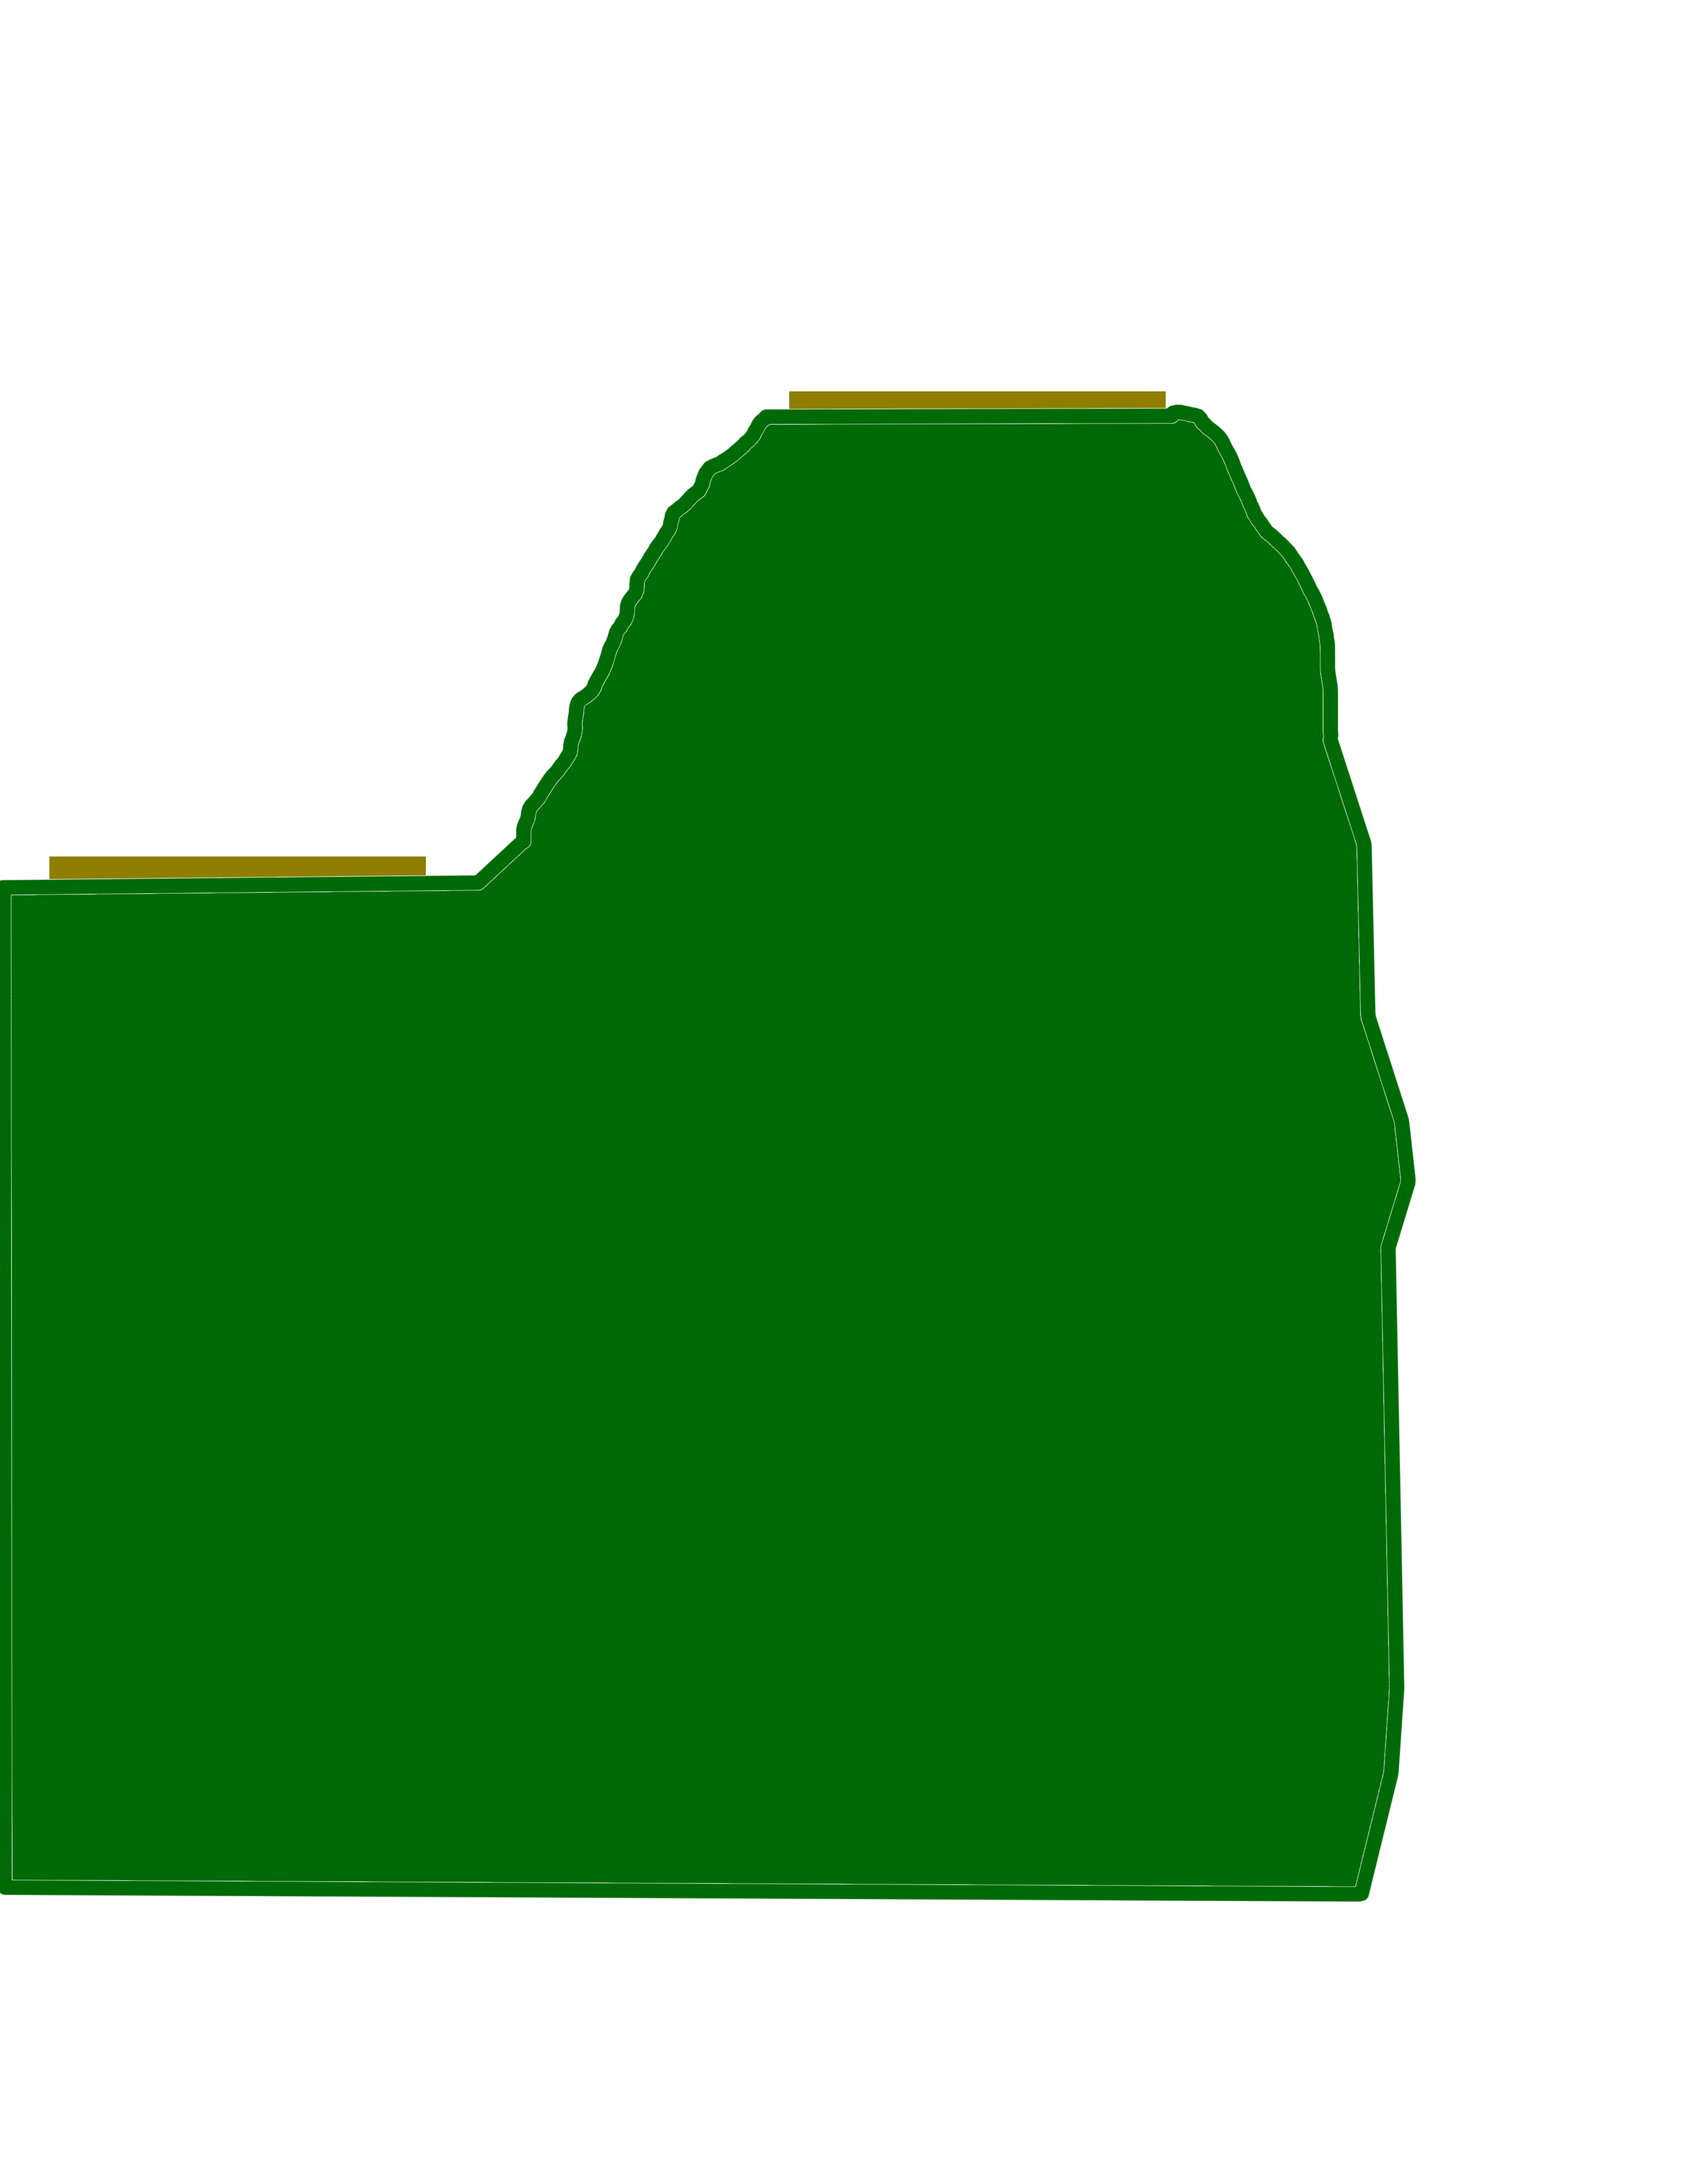
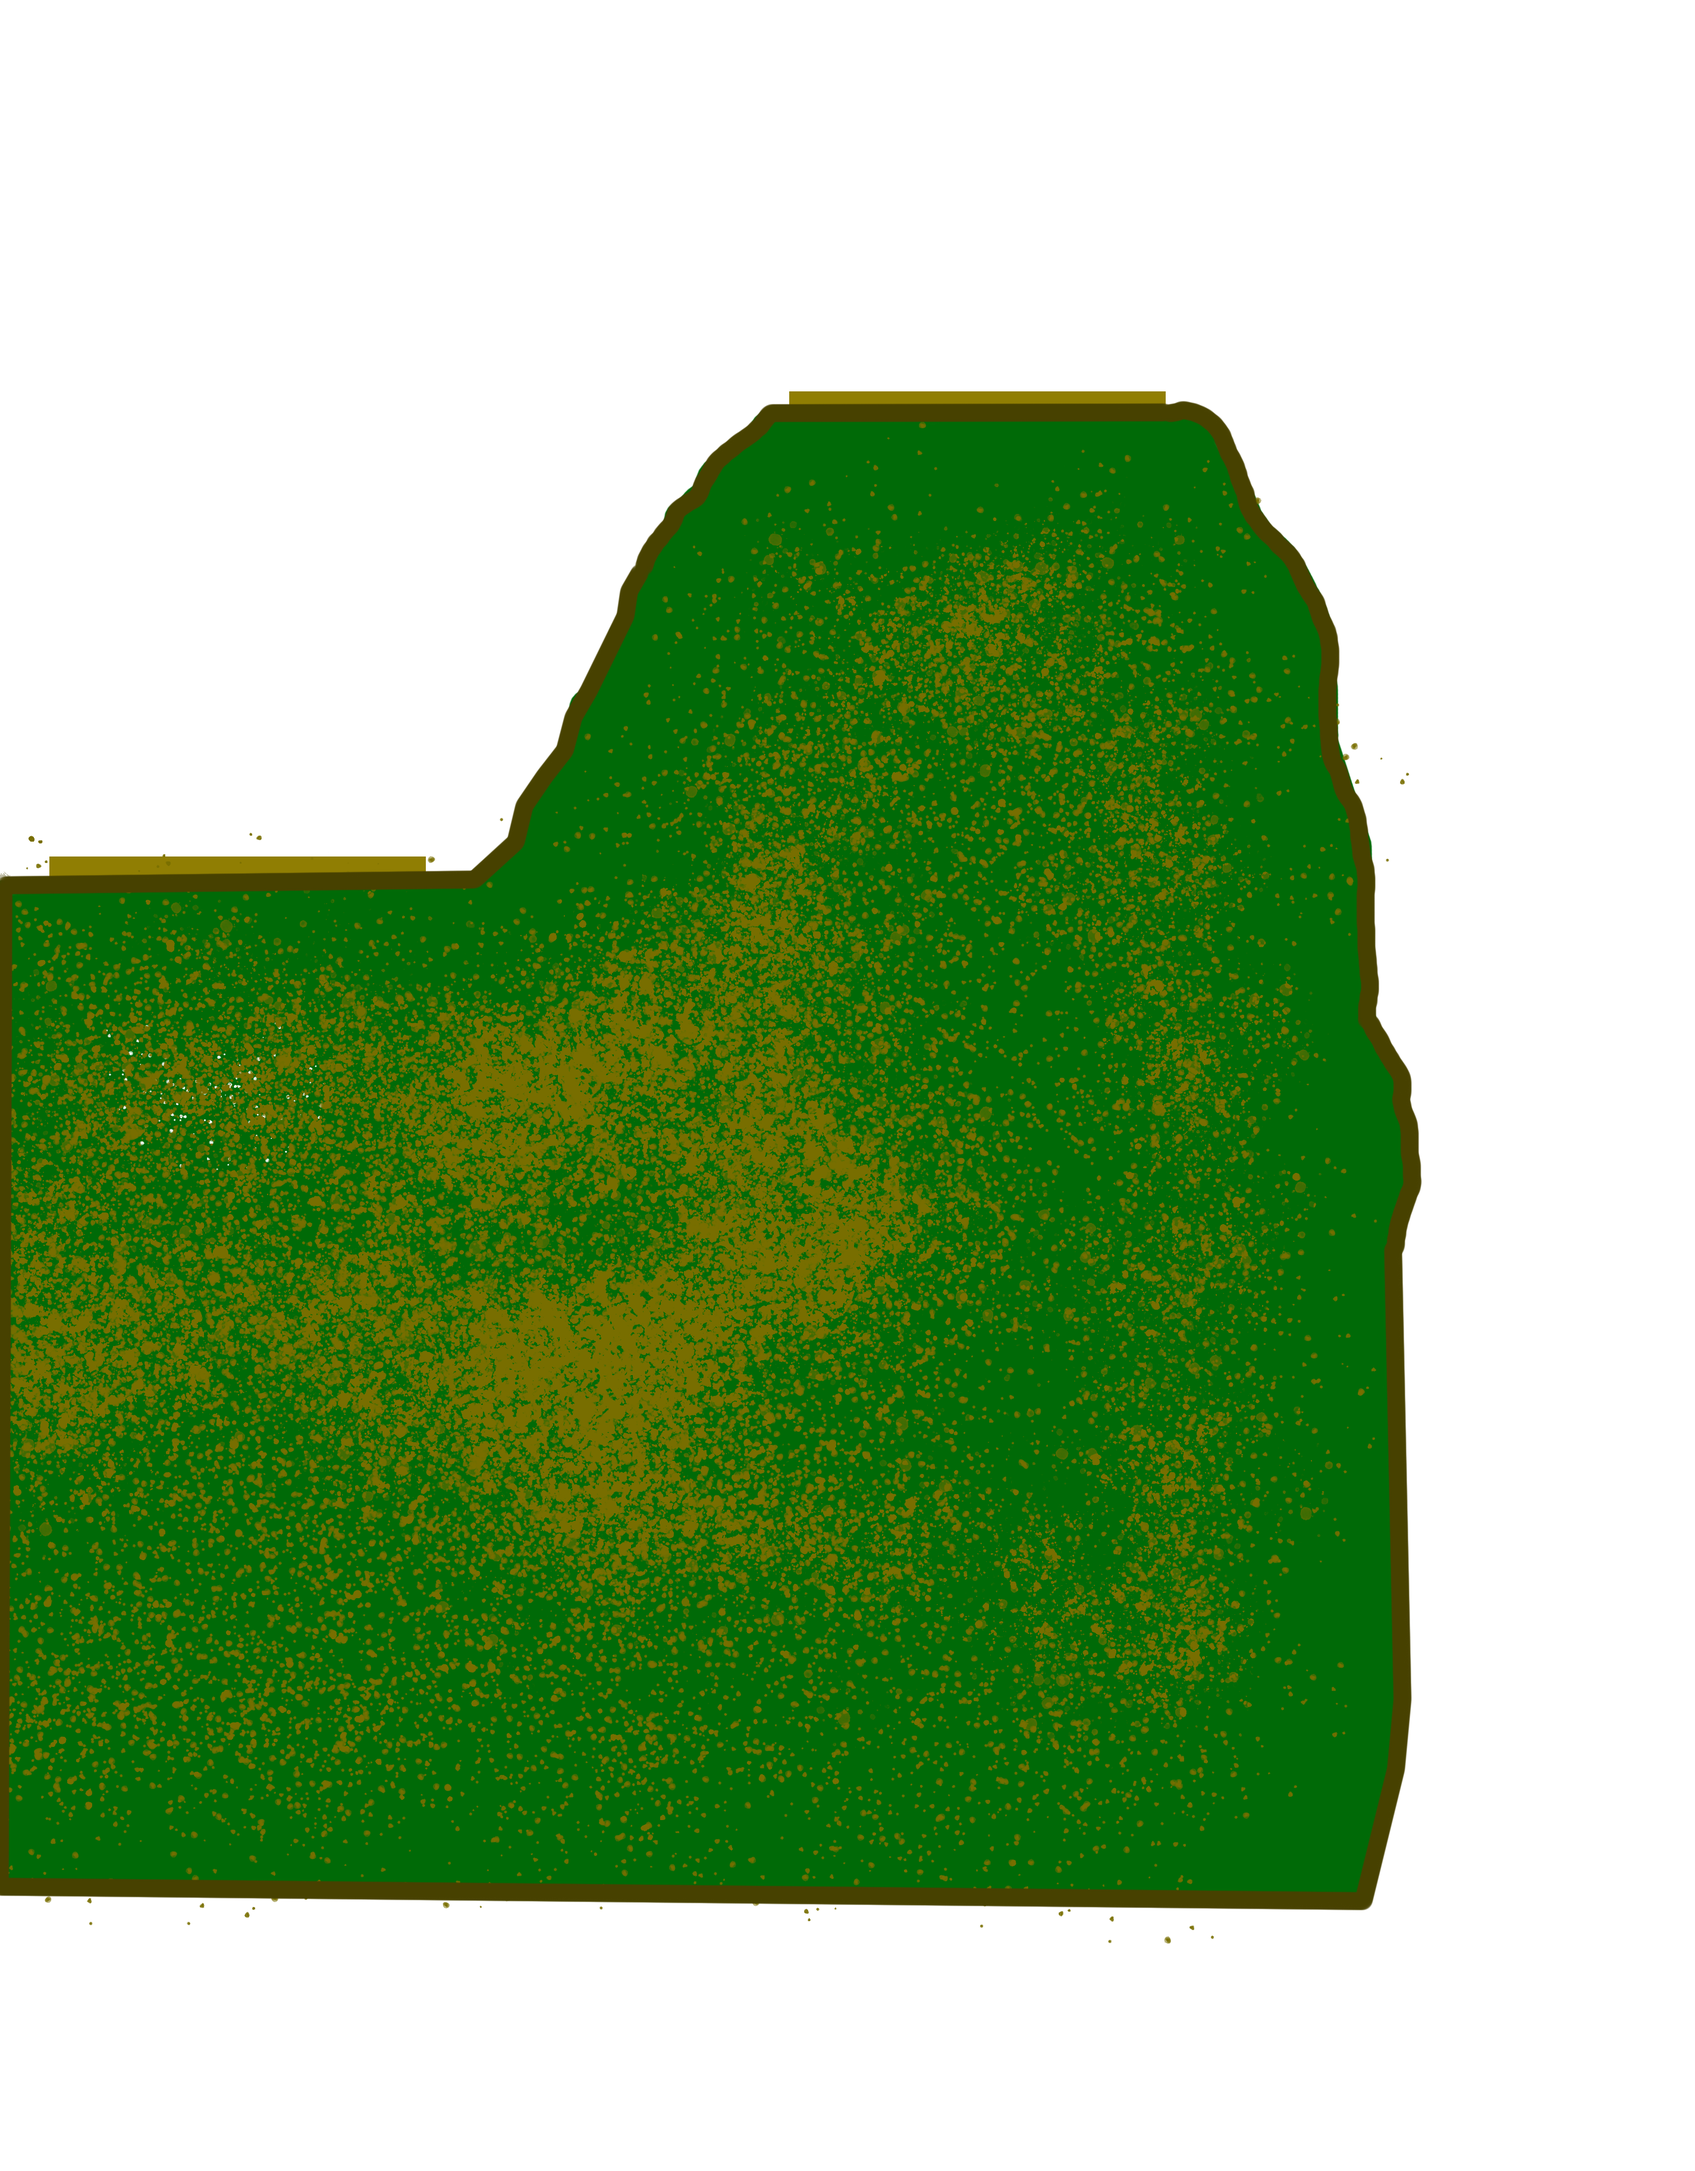
Improve test level and flame particles graphics

Changed region(s): [[0.0, 0.1874, 0.8432, 0.9058]]

diff --git a/particles.go b/particles.go
@@ -59,7 +59,7 @@ func NewParticleSystem(world *box2d.B2World, gravity box2d.B2Vec2) *ParticleSyst
 }
 
 func (ps *ParticleSystem) Emit(pos box2d.B2Vec2, dir float64, angDisp float64) {
-	count := RandInt(5, 10)
+	count := RandInt(5, 20)
 
 	for i := 0; i < count; i++ {
 		ang := RandFloat(dir-angDisp/2, dir+angDisp/2)

diff --git a/game.go b/game.go
@@ -59,6 +59,7 @@ func (g *Game) Update() error {
 	return nil
 }
 
+// TODO: apply force depends on ship impulse just to stop it
 func (g *Game) collideWorldBox() {
 	force := 20.0
 	shipPos := g.ship.GetPos()
